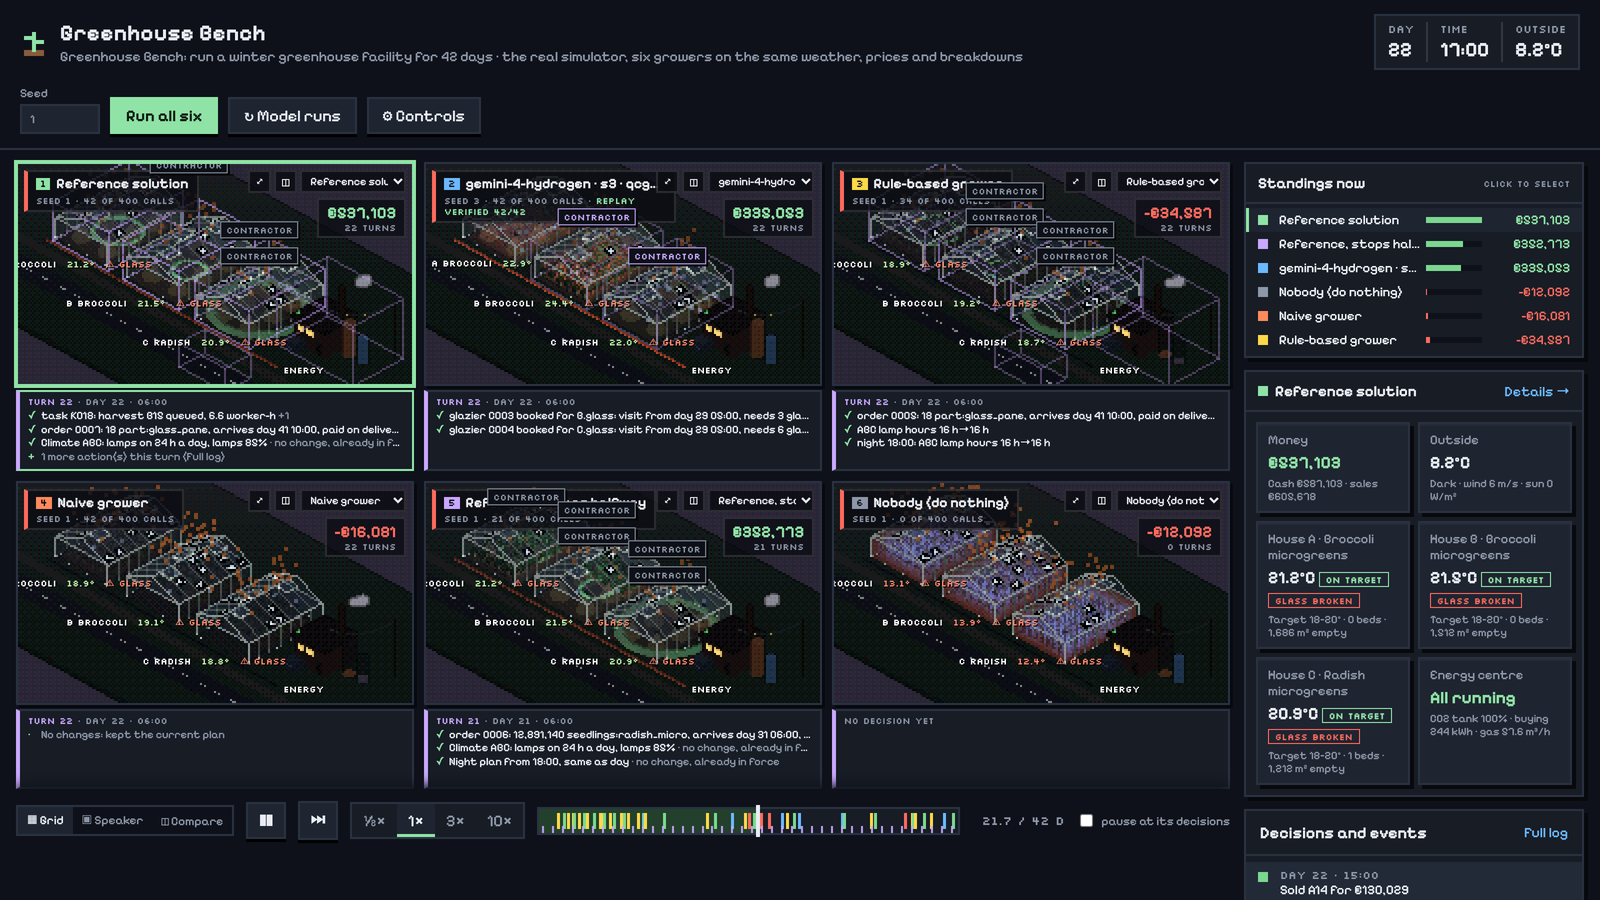
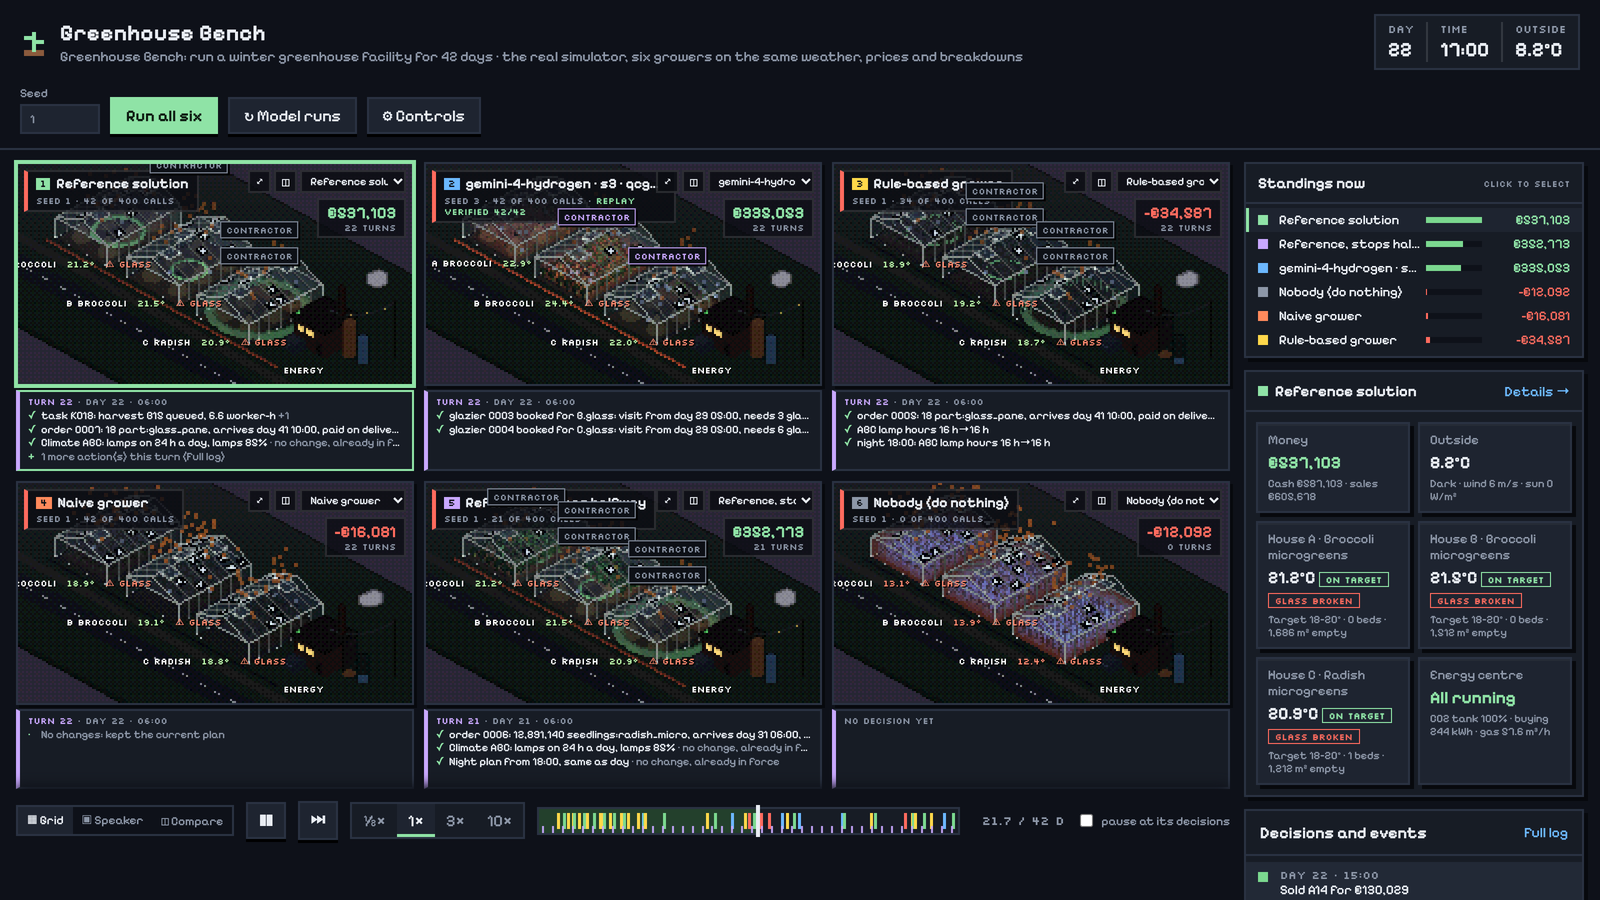
Viewer: decision outlines off by default (toggle stays under Controls); README hero retaken
Entire-Checkpoint: 01M7EMQEAP70XWJEY7F3RJ8A88

diff --git a/scripts/viz/index.html b/scripts/viz/index.html
@@ -97,7 +97,7 @@
       <label class="wrow"><span>Fog</span><input type="checkbox" id="v-fog" checked></label>
       <label class="wrow"><span>Pixel outlines and palette</span><input type="checkbox" id="v-crisp" checked></label>
       <label class="wrow"><span>Sun shadows</span><input type="checkbox" id="v-shadow" checked></label>
-      <label class="wrow"><span>Decision outlines</span><input type="checkbox" id="v-outline" checked></label>
+      <label class="wrow"><span>Decision outlines</span><input type="checkbox" id="v-outline"></label>
       <p class="wnote">The simulator models each house as one air volume, so the field has one value per house; its shimmer is only texture. Ranges come from each crop's data file.</p>
     </div>
   </section>

diff --git a/scripts/viz/ui.js b/scripts/viz/ui.js
@@ -561,7 +561,7 @@
   }
 
   // ---------------- control windows ----------------
-  let fps = 0, frames = 0, fpsT = 0, outlines = true, jobPanel = {}, assigned = new Set();
+  let fps = 0, frames = 0, fpsT = 0, outlines = false, jobPanel = {}, assigned = new Set();
   function applyView() {
     const kind = $("v-field").value, op = +$("v-op").value;
     for (const p of panels) p.scene.settings({ field: { kind, opacity: kind === "none" ? 0 : op }, fog: $("v-fog").checked, pix: +$("v-pix").value,
